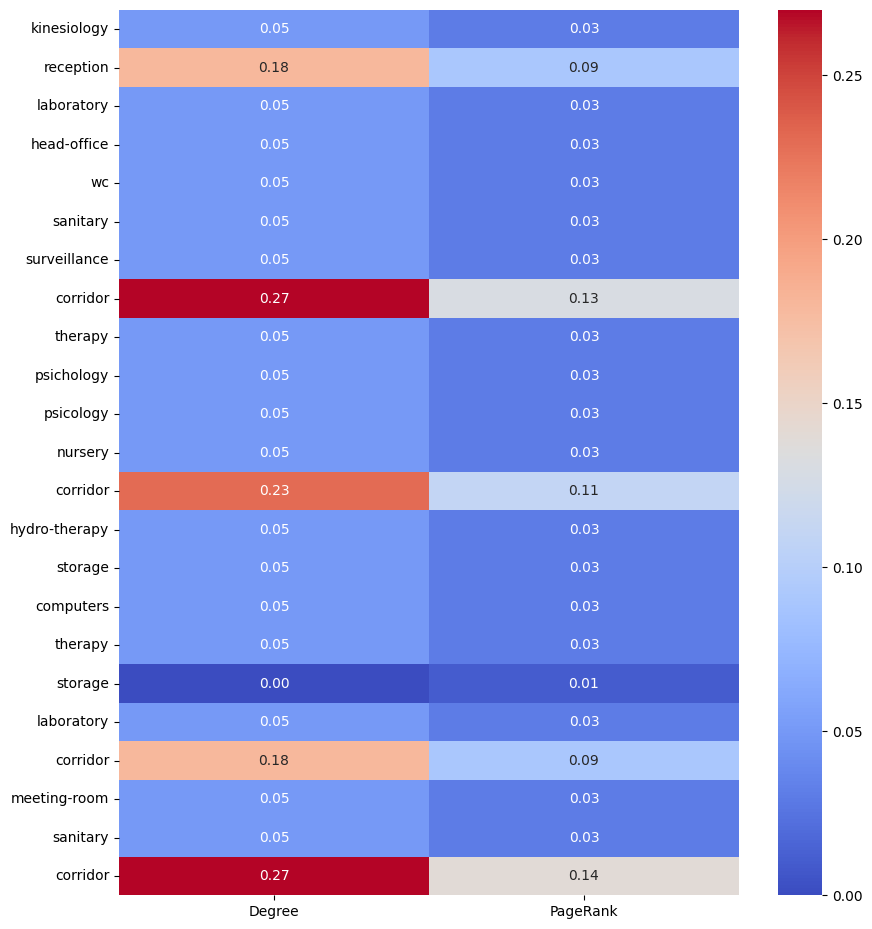
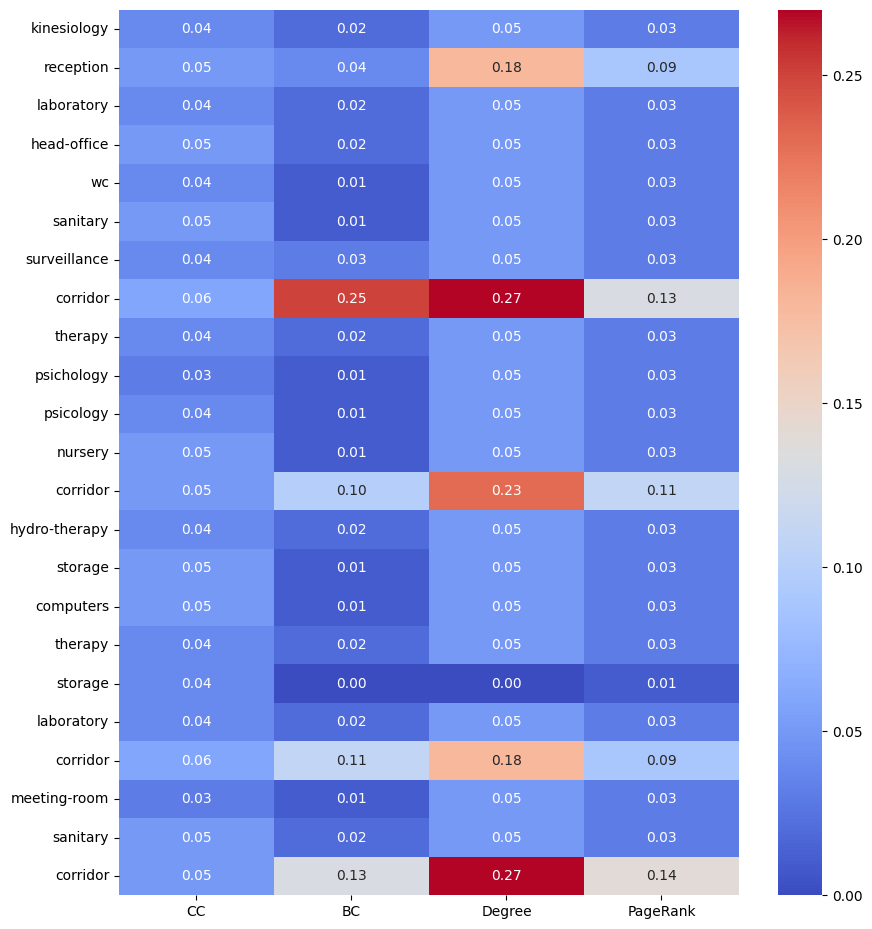
Include all results in Table

diff --git a/Ass02/ASS02-README.md b/Ass02/ASS02-README.md
@@ -98,10 +98,6 @@ This spatial hierarchy is coherent with best‑practice design for sensory‑sen
 ### PageRank
 Both the normalised and not normalised methods were tested, and in both cases the heatmap matches perfectly the degree centrality (correlation coefficient 1).
 
-Results are visible in the table below.
-
-![Table](assets/img/table.png)
-
 ## Correlation analysis
 A correlation analysis was performed for each case to examine the relationships among the spatial metrics: Closeness Centrality (CC), Betweenness Centrality (BC), Degree and PageRank. The resulting correlation matrices visually and numerically illustrate these relationships, where red indicates a strong positive correlation and blue indicates weak or no correlation.
 
@@ -117,6 +113,8 @@ The centrality patterns highlight the balance required in autism‑friendly desi
 More broadly, the results demonstrate that graph‑based spatial analysis offers a rigorous, quantifiable method for evaluating these design principles. 
 
 Metrics such as closeness, betweenness, and degree centrality reveal how spatial configuration shapes sensory load, privacy gradients, and the clear circulation that are often difficult to capture through qualitative assessment alone.
+
+![Table](assets/img/table.png)
 
 ## Future work
 Future work will incorporate a visibility analysis based on isovists, which is crucial for assessing how spatial configurations mediate the balance between privacy and opportunities for surveillance.